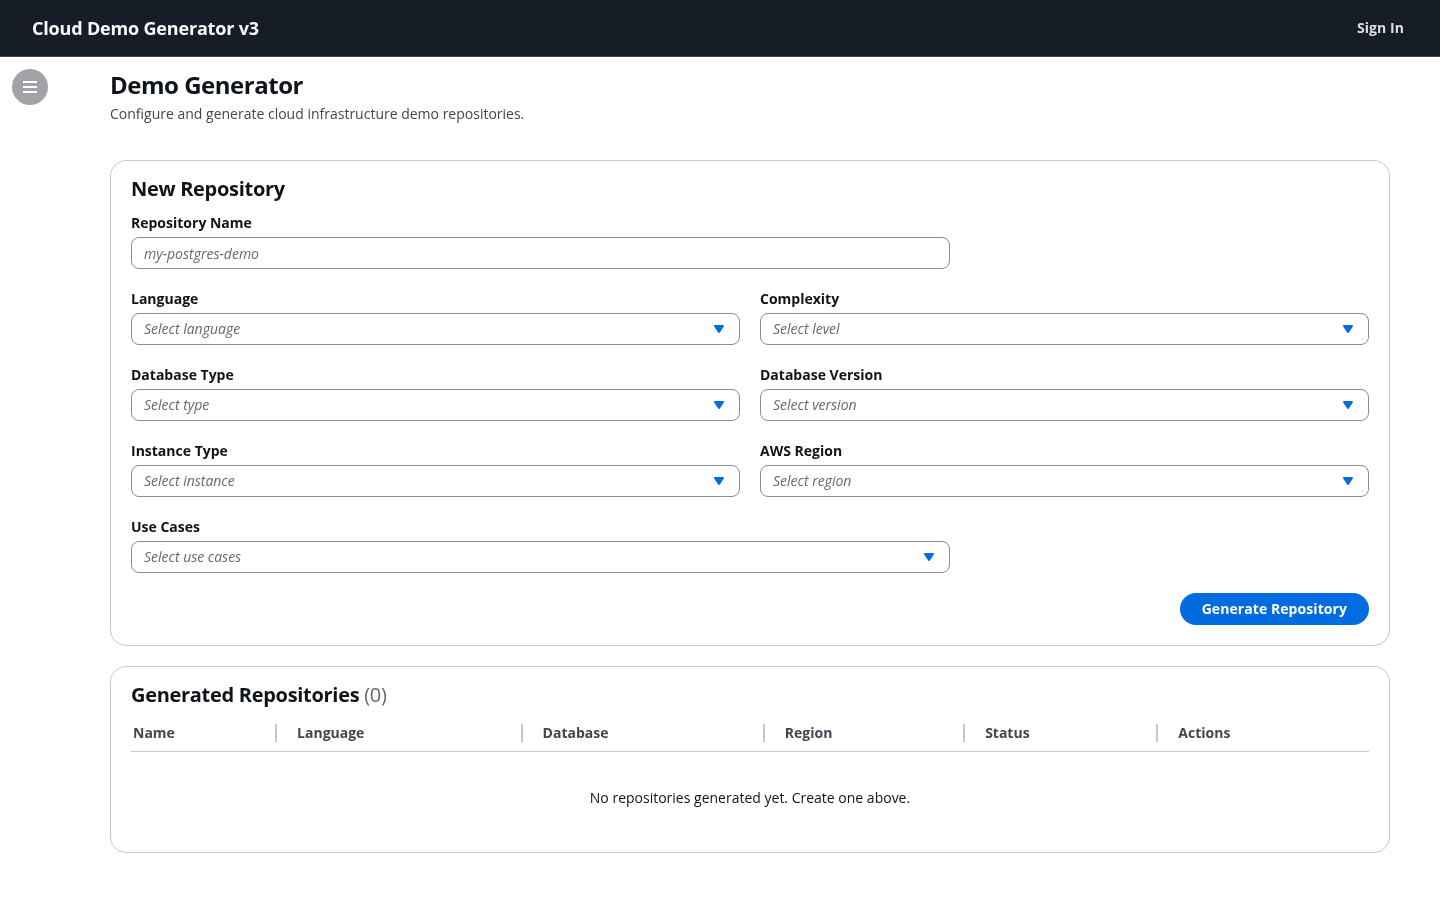
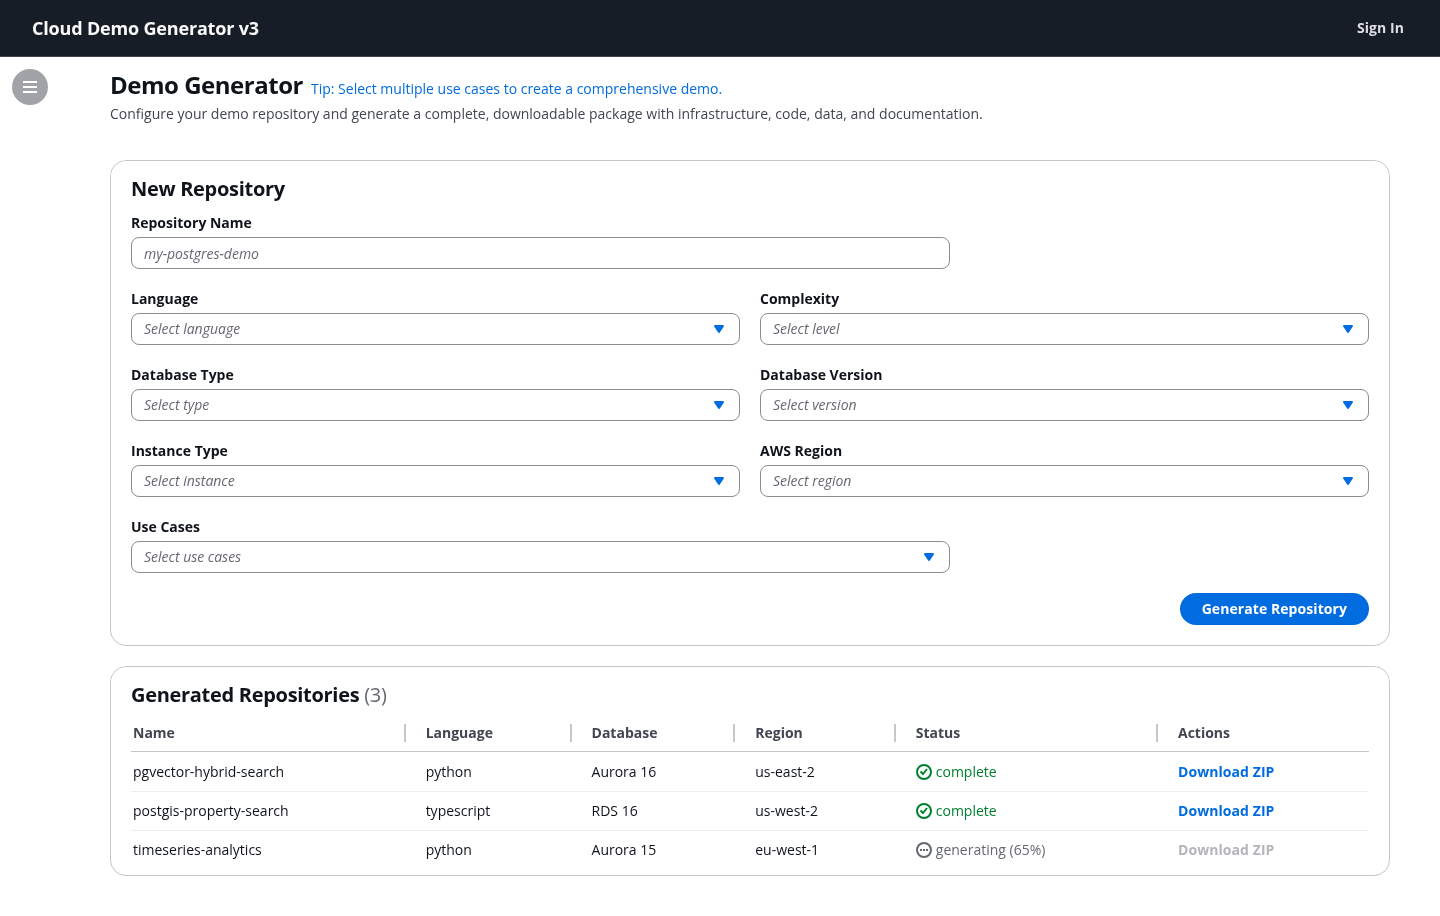
docs: Updated screenshots with mock data — all 8 pages including admin tabs

diff --git a/README.md b/README.md
@@ -31,10 +31,13 @@ Instead of spending a day building a pgvector demo, you spend two minutes config
 | Step | Screenshot |
 |------|------------|
 | Landing / feature overview | ![Landing](screenshots/01-landing.png) |
-| Authentication (Cognito) | ![Auth](screenshots/02-auth.png) |
+| Authentication — Sign In | ![Auth Sign In](screenshots/02-auth-signin.png) |
+| Authentication — Create Account | ![Auth Sign Up](screenshots/06-auth-signup.png) |
 | Generator configuration | ![Generator](screenshots/03-generator.png) |
 | Custom demo request | ![Demo Request](screenshots/04-demo-request.png) |
-| Admin analytics dashboard | ![Admin](screenshots/05-admin.png) |
+| Admin — Overview & Repositories | ![Admin Overview](screenshots/05-admin-overview.png) |
+| Admin — Feedback & Requests | ![Admin Feedback](screenshots/07-admin-feedback.png) |
+| Admin — Use Case Analytics | ![Admin Use Cases](screenshots/08-admin-usecases.png) |
 
 ---
 
